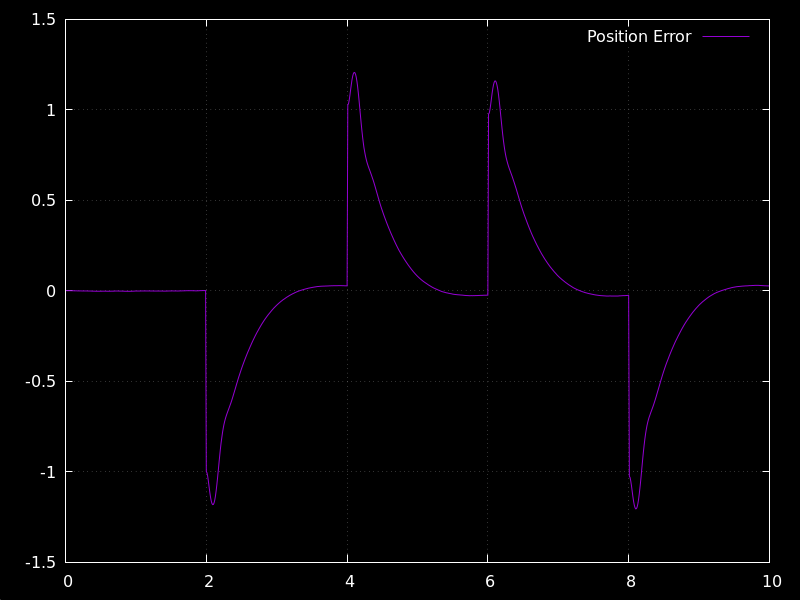
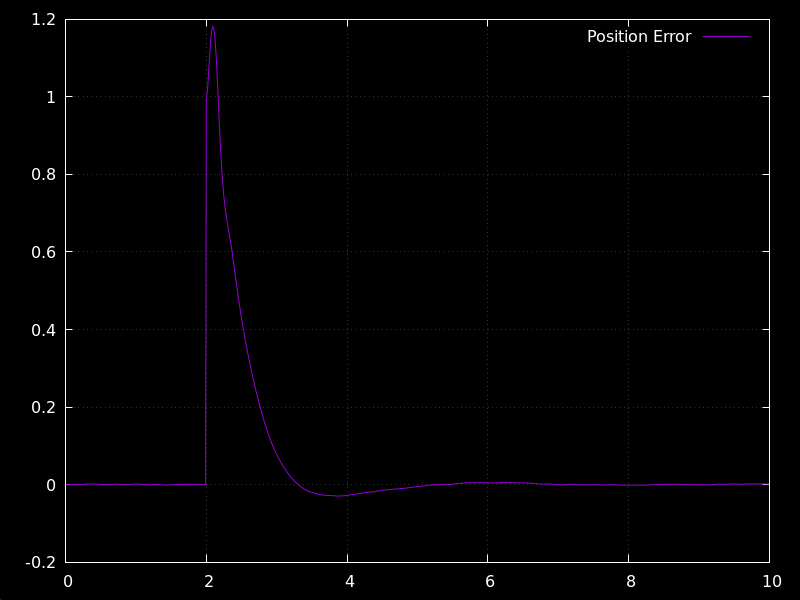
migrated macros from main.c to the right header files

diff --git a/src/main.c b/src/main.c
@@ -4,18 +4,6 @@
 #include <stdio.h>
 #include <stdlib.h>
 
-#ifndef M_PI
-#define M_PI 3.14159265358979323846
-#endif
-
-#define POS_NOISE   1e-4
-#define VEL_NOISE   1e-3
-#define ANGLE_NOISE 1e-5
-#define OMEGA_NOISE 1e-4
-
-#define ENABLE_DAMPING true
-#define DISABLE_DAMPING false
-
 #define SIM_TIME 10
 
 int main(){
@@ -39,7 +27,7 @@ int main(){
   //Write column titles
   fprintf(fpt, "Time,Pos_X,Vel_X,Angle,Force,Setpoint,ERROR\n");
 
-  state_t x = {0,0,-1e-3,0};                //State Vector {x_pos, x_vel, theta, angular_velocity}
+  state_t x = {0,0,-1e-3,0};                //State Vector {x_pos, x_vel, theta, angular_vel}
   state_t x_est = {0,0,0,0};                //State Estimation Vector
   state_t next_state = {0,0,0,0};           //Next State Vector
   state_t y = {0,0,0,0};                    //Measurement Vector
@@ -49,6 +37,10 @@ int main(){
   //State Process Noise
   state_t noise = {0,0,0,0};
   double noise_std_dev[4] = {POS_NOISE, VEL_NOISE, ANGLE_NOISE, OMEGA_NOISE};
+
+  //Measurement Noise
+  state_t measurement_noise = {0,0,0,0};
+  double sensor_noise_std_dev[4] = {POS_SENSOR_NOISE, 0, ANGLE_SENSOR_NOISE, 0};
   
   //Initial Setpoints for each state
   state_t setpoint = {0,0,0,0};
@@ -57,17 +49,14 @@ int main(){
 
     for(size_t i = 0; i < 4; ++i){
       noise.arr[i] = gaussian_generator(0, noise_std_dev[i]);
+      measurement_noise.arr[i] = gaussian_generator(0, sensor_noise_std_dev[i]);
     }       
 
-    if((time >= 2) && (time < 4)){setpoint.pendulum.x = -1;}
-    if((time >= 4) && (time < 6)){setpoint.pendulum.x =  0.0;}
-    if((time >= 6) && (time < 8)){setpoint.pendulum.x =  1;}
-    if((time >= 8) && (time < 10)){setpoint.pendulum.x = 0.0;}
-    //setpoint.pendulum.x += dt;
+    if((time >= 2) && (time < 4))setpoint.pendulum.x = 1;
 
     for(size_t i = 0; i < 4; ++i){
       //Add process noise to current state
-      x.arr[i] = x.arr[i] + noise.arr[i];
+      x.arr[i] += noise.arr[i];
       u -= K[i]*(x.arr[i] - setpoint.arr[i]);
     }
 

diff --git a/include/estimator.h b/include/estimator.h
@@ -1,3 +1,13 @@
 #pragma once
 
+//Process Noise
+#define POS_NOISE   1e-4
+#define VEL_NOISE   1e-3
+#define ANGLE_NOISE 1e-5
+#define OMEGA_NOISE 1e-4
+
+//Sensor Noise
+#define POS_SENSOR_NOISE   1e-2
+#define ANGLE_SENSOR_NOISE 1e-3
+
 double angular_encoder_sensor(double theta_measurement);

diff --git a/include/physics.h b/include/physics.h
@@ -4,6 +4,12 @@
 #include <stdbool.h>
 #include <time.h>
 
+#define ENABLE_DAMPING true
+#define DISABLE_DAMPING false
+
+#ifndef M_PI
+#define M_PI 3.14159265358979323846
+#endif
 
 typedef struct{
   const double G; //gravity     [m/s^2]

diff --git a/core/physics.c b/core/physics.c
@@ -3,10 +3,6 @@
 #include <stdlib.h>
 #include <stdio.h>
 
-#ifndef M_PI
-#define M_PI 3.14159265358979323846
-#endif
-
 /*
 - Non-linear dynamics model for the inverted pendulum and DC motor
 - ODE Solver
